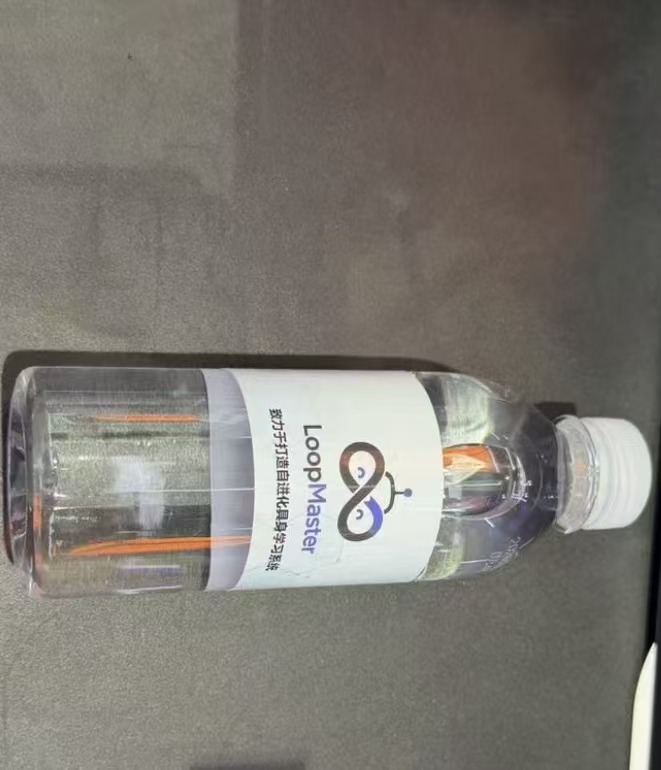
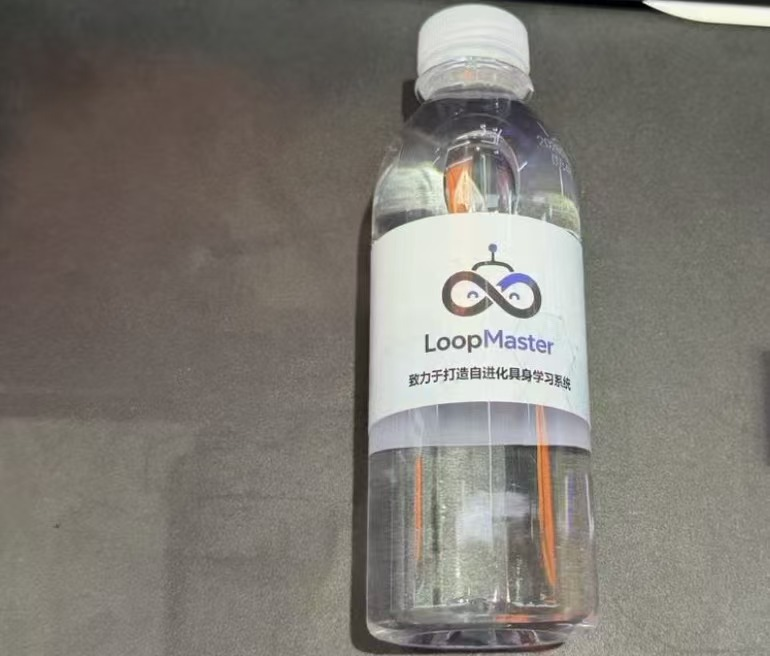
fix(web): rotate product photos and mark items sold out

diff --git a/web_page/app.py b/web_page/app.py
@@ -74,11 +74,11 @@ SEED_PRODUCTS = [
     ("农夫山泉矿泉水", "bottled_water",  "饮料",   2.0, 30, "💧", "bottled_water.jpg"),
     ("纯牛奶",        "milk",           "饮料",   5.0, 15, "🥛", "milk.jpg"),
     ("双汇火腿肠",    "ham_sausage",    "零食",   2.0, 25, "🌭", "ham_sausage.jpg"),
-    ("干脆面",        "cracker_noodle", "零食",   3.0, 20, "🍜", "cracker_noodle.jpg"),
+    ("干脆面",        "cracker_noodle", "零食",   3.0, 0,  "🍜", "cracker_noodle.jpg"),
     ("旺仔小馒头",    "wangzai_bun",    "零食",   4.0, 18, "🍘", "wangzai_bun.jpg"),
-    ("绿豆饼",        "mung_bean_cake", "零食",   3.0, 18, "🥮", "mung_bean_cake.jpg"),
-    ("芝士夹心饼干",  "cheese_biscuit", "零食",   5.0, 18, "🧀", "cheese_biscuit.jpg"),
-    ("巧克力棒",      "chocolate_bar",  "零食",   6.0, 15, "🍫", "chocolate_bar.jpg"),
+    ("绿豆饼",        "mung_bean_cake", "零食",   3.0, 0,  "🥮", "mung_bean_cake.jpg"),
+    ("芝士夹心饼干",  "cheese_biscuit", "零食",   5.0, 0,  "🧀", "cheese_biscuit.jpg"),
+    ("巧克力棒",      "chocolate_bar",  "零食",   6.0, 0,  "🍫", "chocolate_bar.jpg"),
     ("麻辣王子辣条",  "spicy_gluten_strip", "零食", 3.0, 20, "🌶", "麻辣王子辣条.jpg"),
     ("LoopMaster 矿泉水", "loopmaster_water", "饮料", 2.0, 30, "💧", "矿泉水.jpg"),
     ("AD钙牛奶",      "ad_calcium_milk", "饮料",  3.0, 20, "🥛", "AD钙牛奶.jpg"),
@@ -88,6 +88,14 @@ SEED_PRODUCTS = [
 ]
 # 已从货架下架的 SKU。启动时同步清理旧数据库，避免只改种子数据后仍继续展示。
 RETIRED_PRODUCT_SKUS = ("cola", "red_bull")
+# 只执行一次的库存迁移：让已有数据库同步为缺货，之后后台仍可正常补货。
+OUT_OF_STOCK_MIGRATION_KEY = "catalog_out_of_stock_20260819"
+OUT_OF_STOCK_SKUS = (
+    "cracker_noodle",
+    "chocolate_bar",
+    "mung_bean_cake",
+    "cheese_biscuit",
+)
 # 分类中英映射（发给 agent / 存英文用）
 CATEGORY_EN = {"饮料": "drink", "零食": "snack", "自定义": "custom"}
 
@@ -232,6 +240,20 @@ def init_db():
         "UPDATE products SET image = ? WHERE name_en = ? AND COALESCE(image, '') = ''",
         [(img, en) for (_n, en, _c, _p, _s, _e, img) in SEED_PRODUCTS if img],
     )
+    migrated = db.execute(
+        "SELECT 1 FROM stats WHERE key = ?",
+        (OUT_OF_STOCK_MIGRATION_KEY,),
+    ).fetchone()
+    if not migrated:
+        placeholders = ",".join("?" for _ in OUT_OF_STOCK_SKUS)
+        db.execute(
+            f"UPDATE products SET stock = 0 WHERE name_en IN ({placeholders})",
+            OUT_OF_STOCK_SKUS,
+        )
+        db.execute(
+            "INSERT INTO stats(key, value) VALUES(?, 1)",
+            (OUT_OF_STOCK_MIGRATION_KEY,),
+        )
     db.commit()
     db.close()
 
